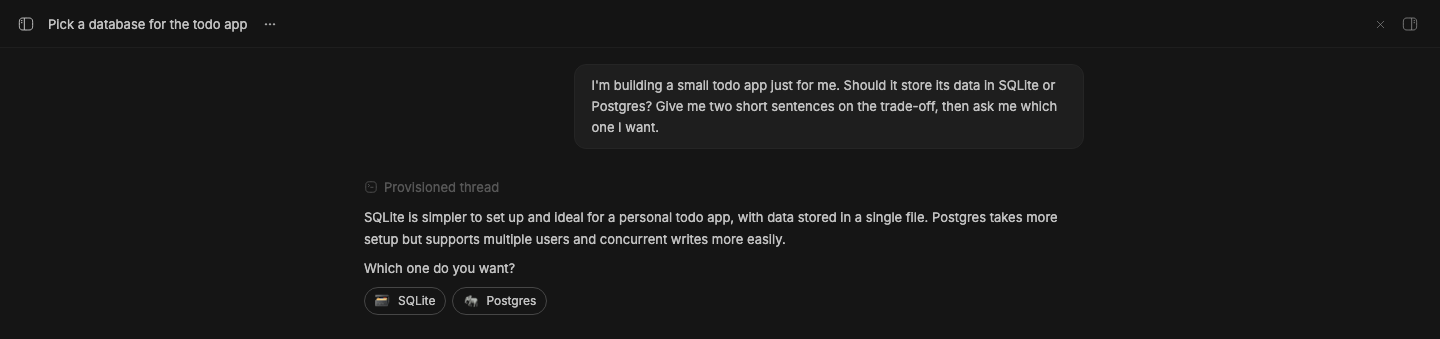
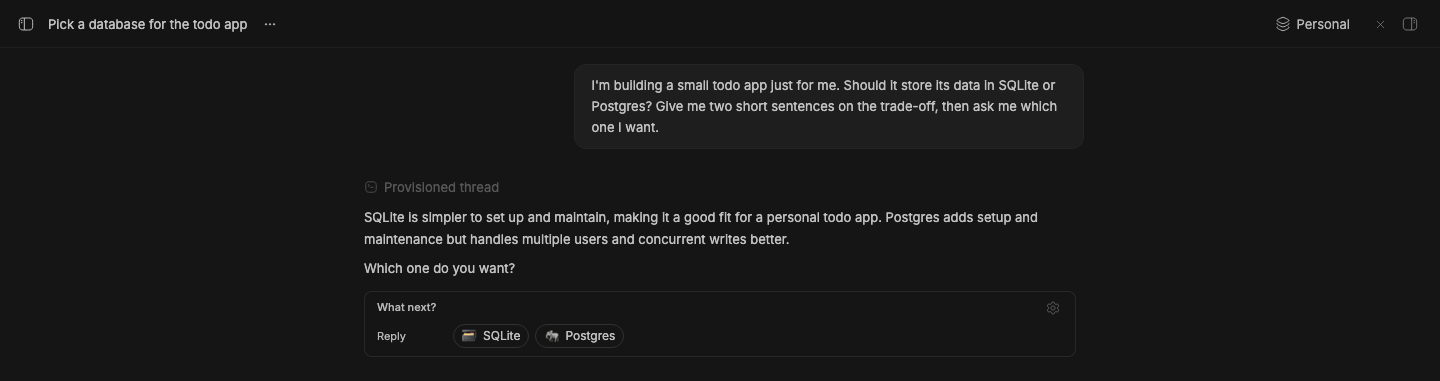
Reactions capture: find smart reactions in the Next row's Reply row too
With Pages installed, smart reactions arrive as the Next row's quick
replies, so the capture waited for a Suggested reactions group that never
rendered. It now accepts either surface, still requires SQLite and
Postgres, rejects either raw directive, and checks that a click drafts the
reply. Recaptured from a staged BB.

diff --git a/packages/bb-studio-reactions/README.md b/packages/bb-studio-reactions/README.md
@@ -82,9 +82,10 @@ emoji-only selection entries, and cleanup when the plugin is disabled.
 
 A live thread in the staged BB, run on GPT-6.1-Sol with smart reactions on. It
 asked whether to use SQLite or Postgres for a small todo app, and the
-assistant's reply ends with its suggested reactions, SQLite and Postgres. The
-capture script also clicks SQLite and checks that the reply was drafted in the
-composer. The staged BB passes the thread's ID as
+assistant's reply ends with its suggested reactions, SQLite and Postgres. With
+Pages installed, as here, they show as the **Reply** row of Pages' "What next?"
+card; without it, as Studio Reactions' own buttons. The capture accepts either,
+then clicks SQLite and checks that the reply was drafted in the composer. The staged BB passes the thread's ID as
 `BB_CAPTURE_SMART_REACTIONS_THREAD_ID`.
 
 ## Settings
